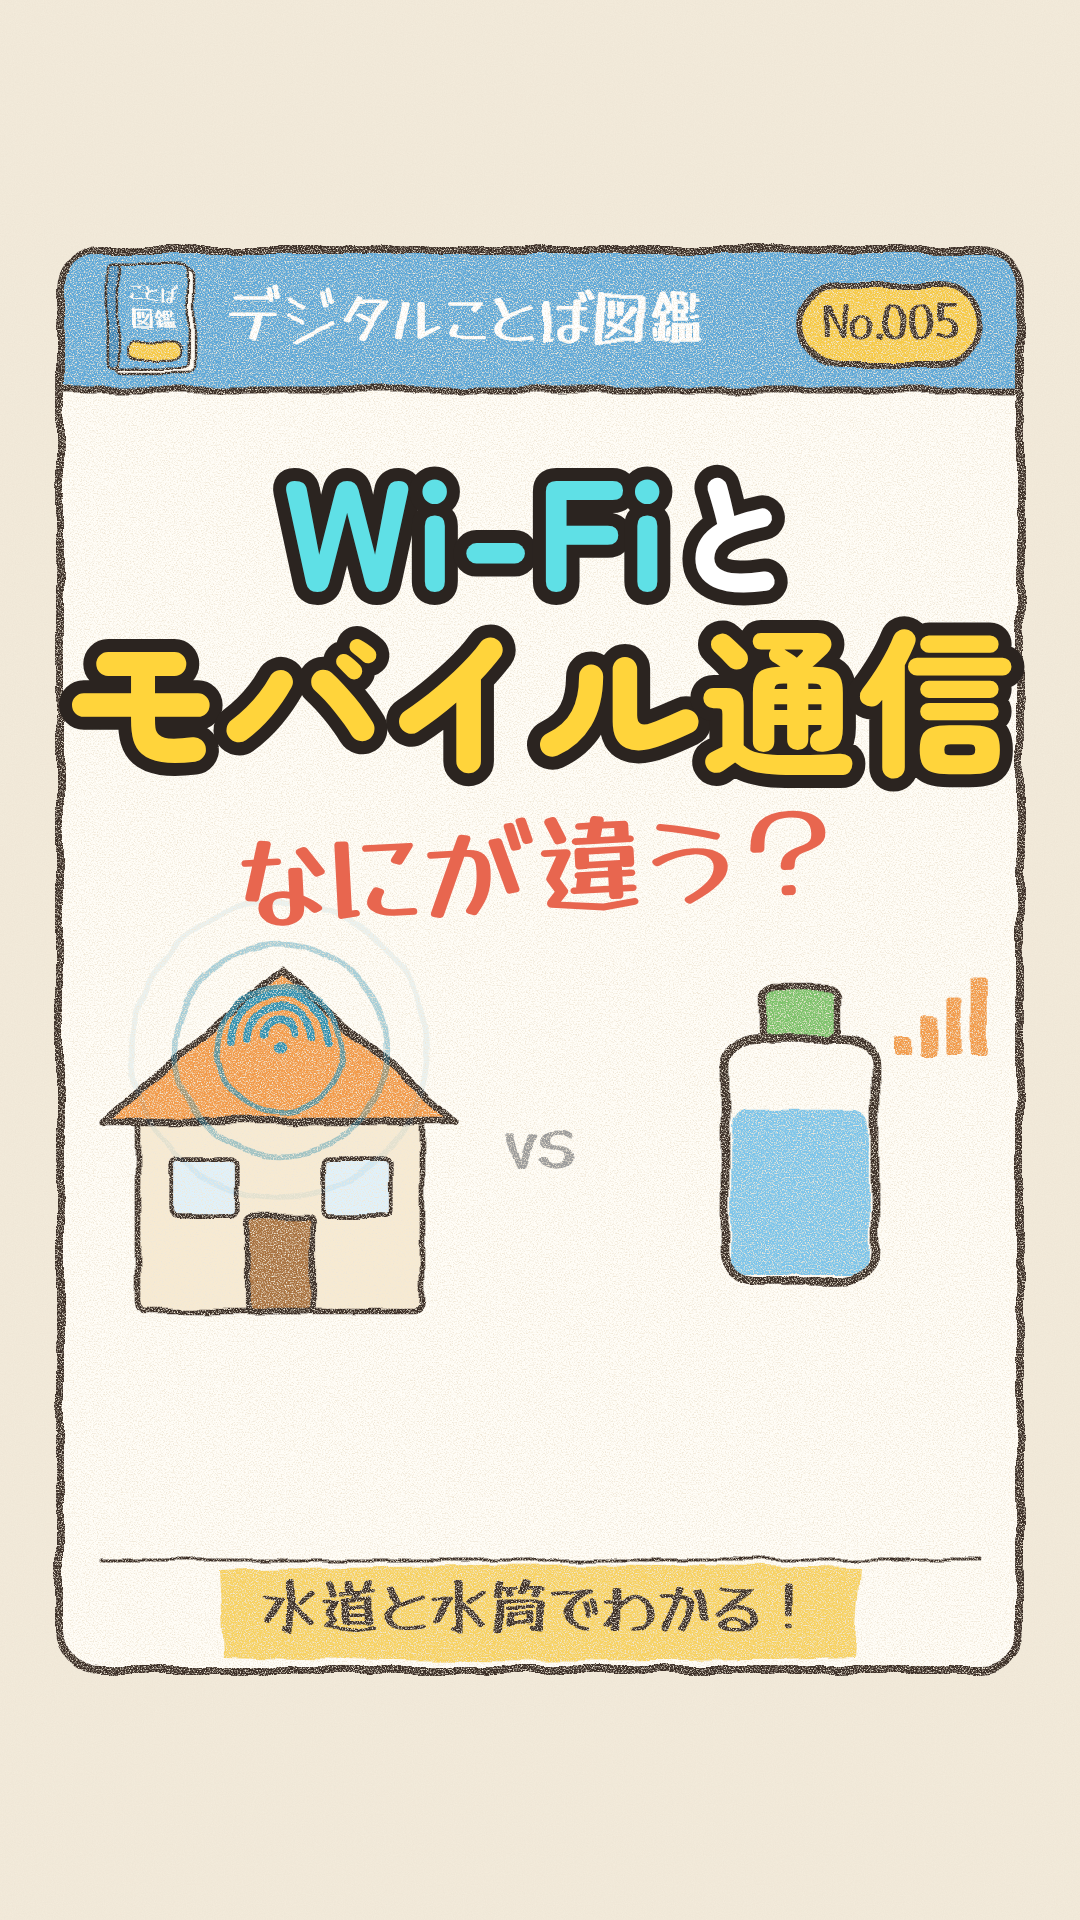
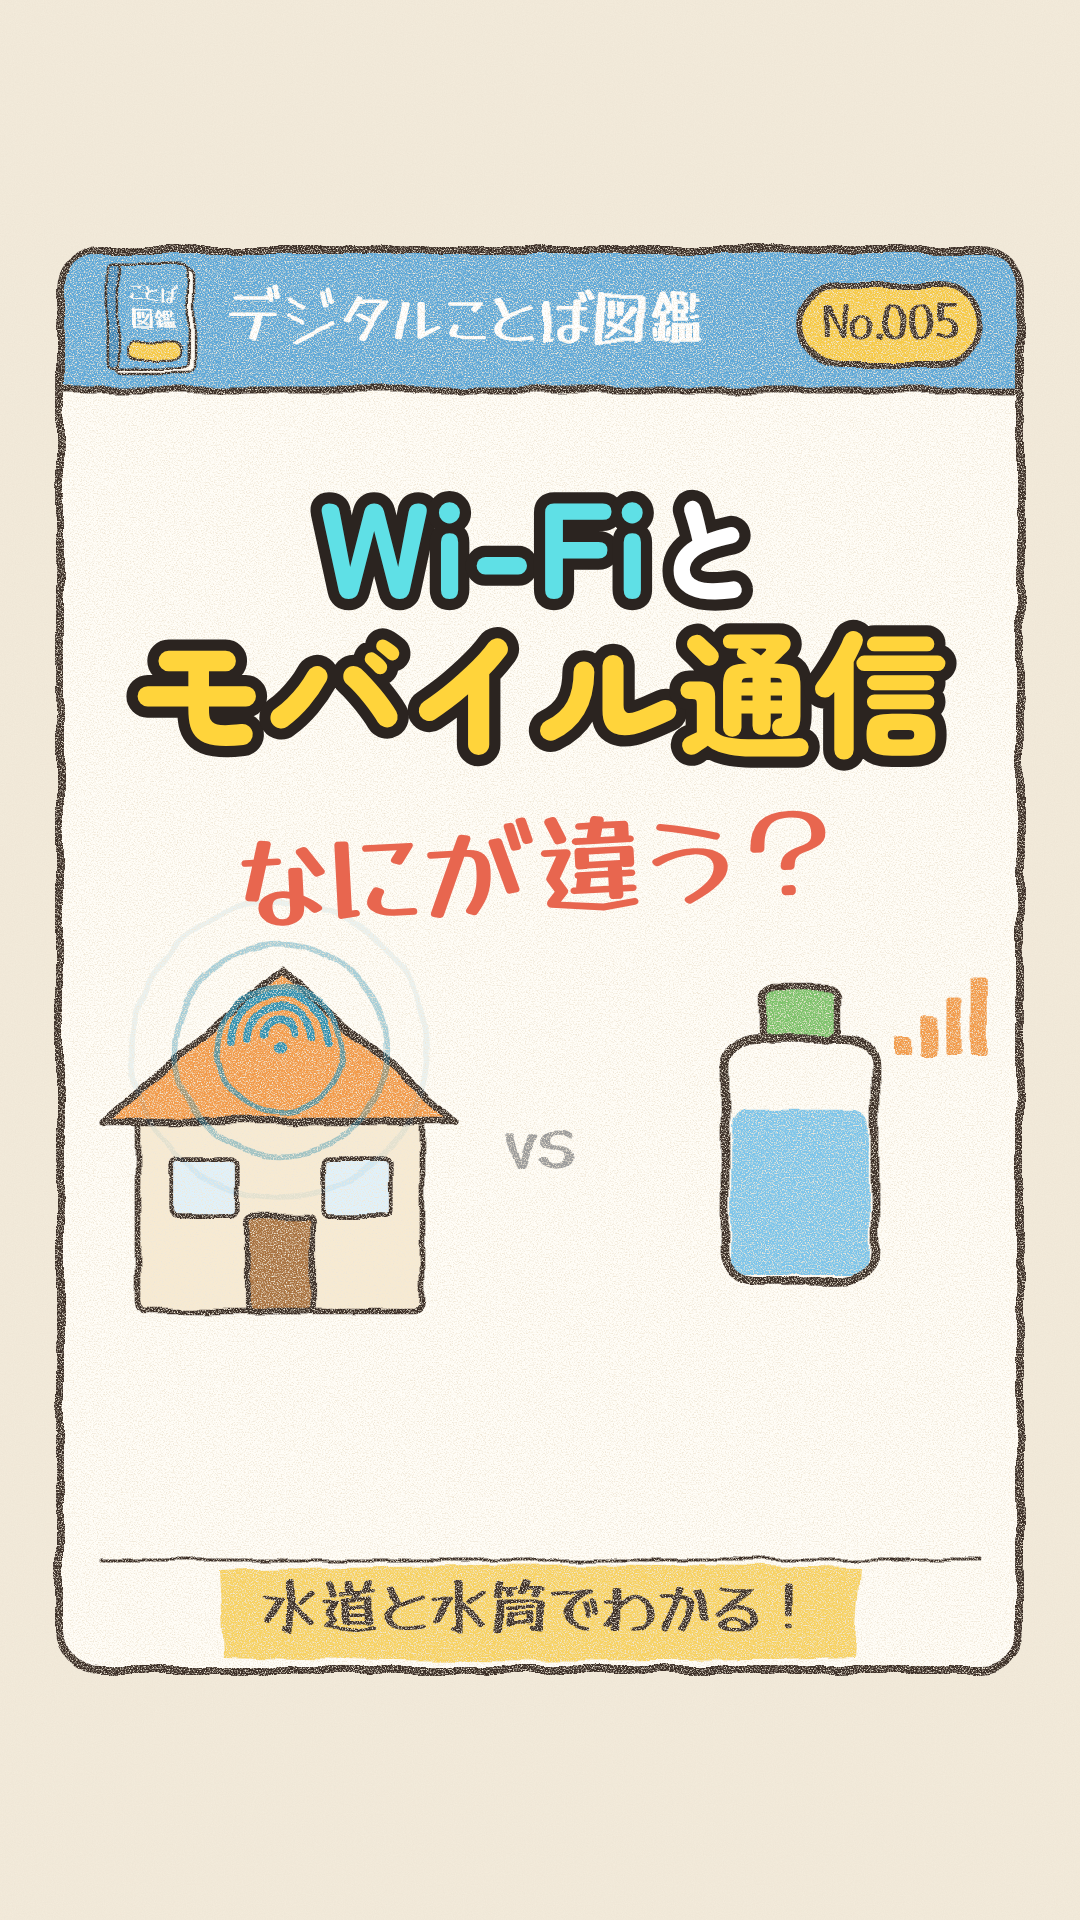
Fit No.005 thumbnail title inside page frame (title max width option)
Claude-Session: https://claude.ai/code/session_01L8xEAAvehPoVRzwPzYE6cr

Changed region(s): [[0.0611, 0.2188, 0.9472, 0.4375]]

diff --git a/brand/thumb.html b/brand/thumb.html
@@ -16,7 +16,7 @@ const THUMBS = {
   '002': { title: '{c:キャッシュ}', question: 'ってなに？', answer: '手元の控えでわかる！', art: 'cache' },
   '003': { title: '{p:Cookie}', question: 'ってなに？', answer: '会員カードでわかる！', art: 'card' },
   '004': { title: '{y:ギガ}', question: '何が減ってる？', answer: '水のタンクでわかる！', art: 'giga' },
-  '005': { title: '{c:Wi-Fi}と\n{y:モバイル通信}', question: 'なにが違う？', answer: '水道と水筒でわかる！', art: 'wifi' },
+  '005': { titleSize: 128, title: '{c:Wi-Fi}と\n{y:モバイル通信}', question: 'なにが違う？', answer: '水道と水筒でわかる！', art: 'wifi' },
 };
 
 const ART = {
@@ -63,7 +63,7 @@ function thumb(no) {
     marker(540, 1612, 640, 92, C.yellow) + hand(540, 1614, d.answer, 60);
   const lines = d.title.split('\n').length;
   const overlay =
-    captionSVG(d.title, 540, lines > 1 ? 640 : 610, lines > 1 ? 150 : 190, 0, 10) +
+    captionSVG(d.title, 540, lines > 1 ? 640 : 610, lines > 1 ? (d.titleSize || 150) : 190, 0, 10, { maxW: 860 }) +
     g(`translate(540 ${lines > 1 ? 880 : 800}) rotate(-3)`, hand(0, 0, d.question, 110, C.red));
   return frameSVG(0, ill, overlay).replace(/<rect x="0" y="1906"[^>]*\/>/, '');
 }

diff --git a/video/src/engine.js b/video/src/engine.js
@@ -191,7 +191,7 @@ function captionSVG(str, cx, cy, size, t0, t, opts = {}) {
   const lines = str.split('\n');
   // 一番長い行が幅 1000px に収まるよう自動縮小
   const em = (line) => { let w = 0; line.replace(/\{(\w):([^}]*)\}|([^{]+)/g, (m, k, hl, pl) => { const f = (x) => [...x].reduce((a, ch) => a + (ch.charCodeAt(0) < 256 ? 0.6 : 1), 0); w += hl ? f(hl) * 1.22 : f(pl); return ''; }); return w; };
-  size = Math.min(size, 1000 / Math.max(...lines.map(em)) / 1.05);
+  size = Math.min(size, (opts.maxW || 1000) / Math.max(...lines.map(em)) / 1.05);
   const lh = size * 1.32;
   const sc = 0.86 + 0.14 * easeBack(prog(t, t0, t0 + 0.28));
   let out = '';
